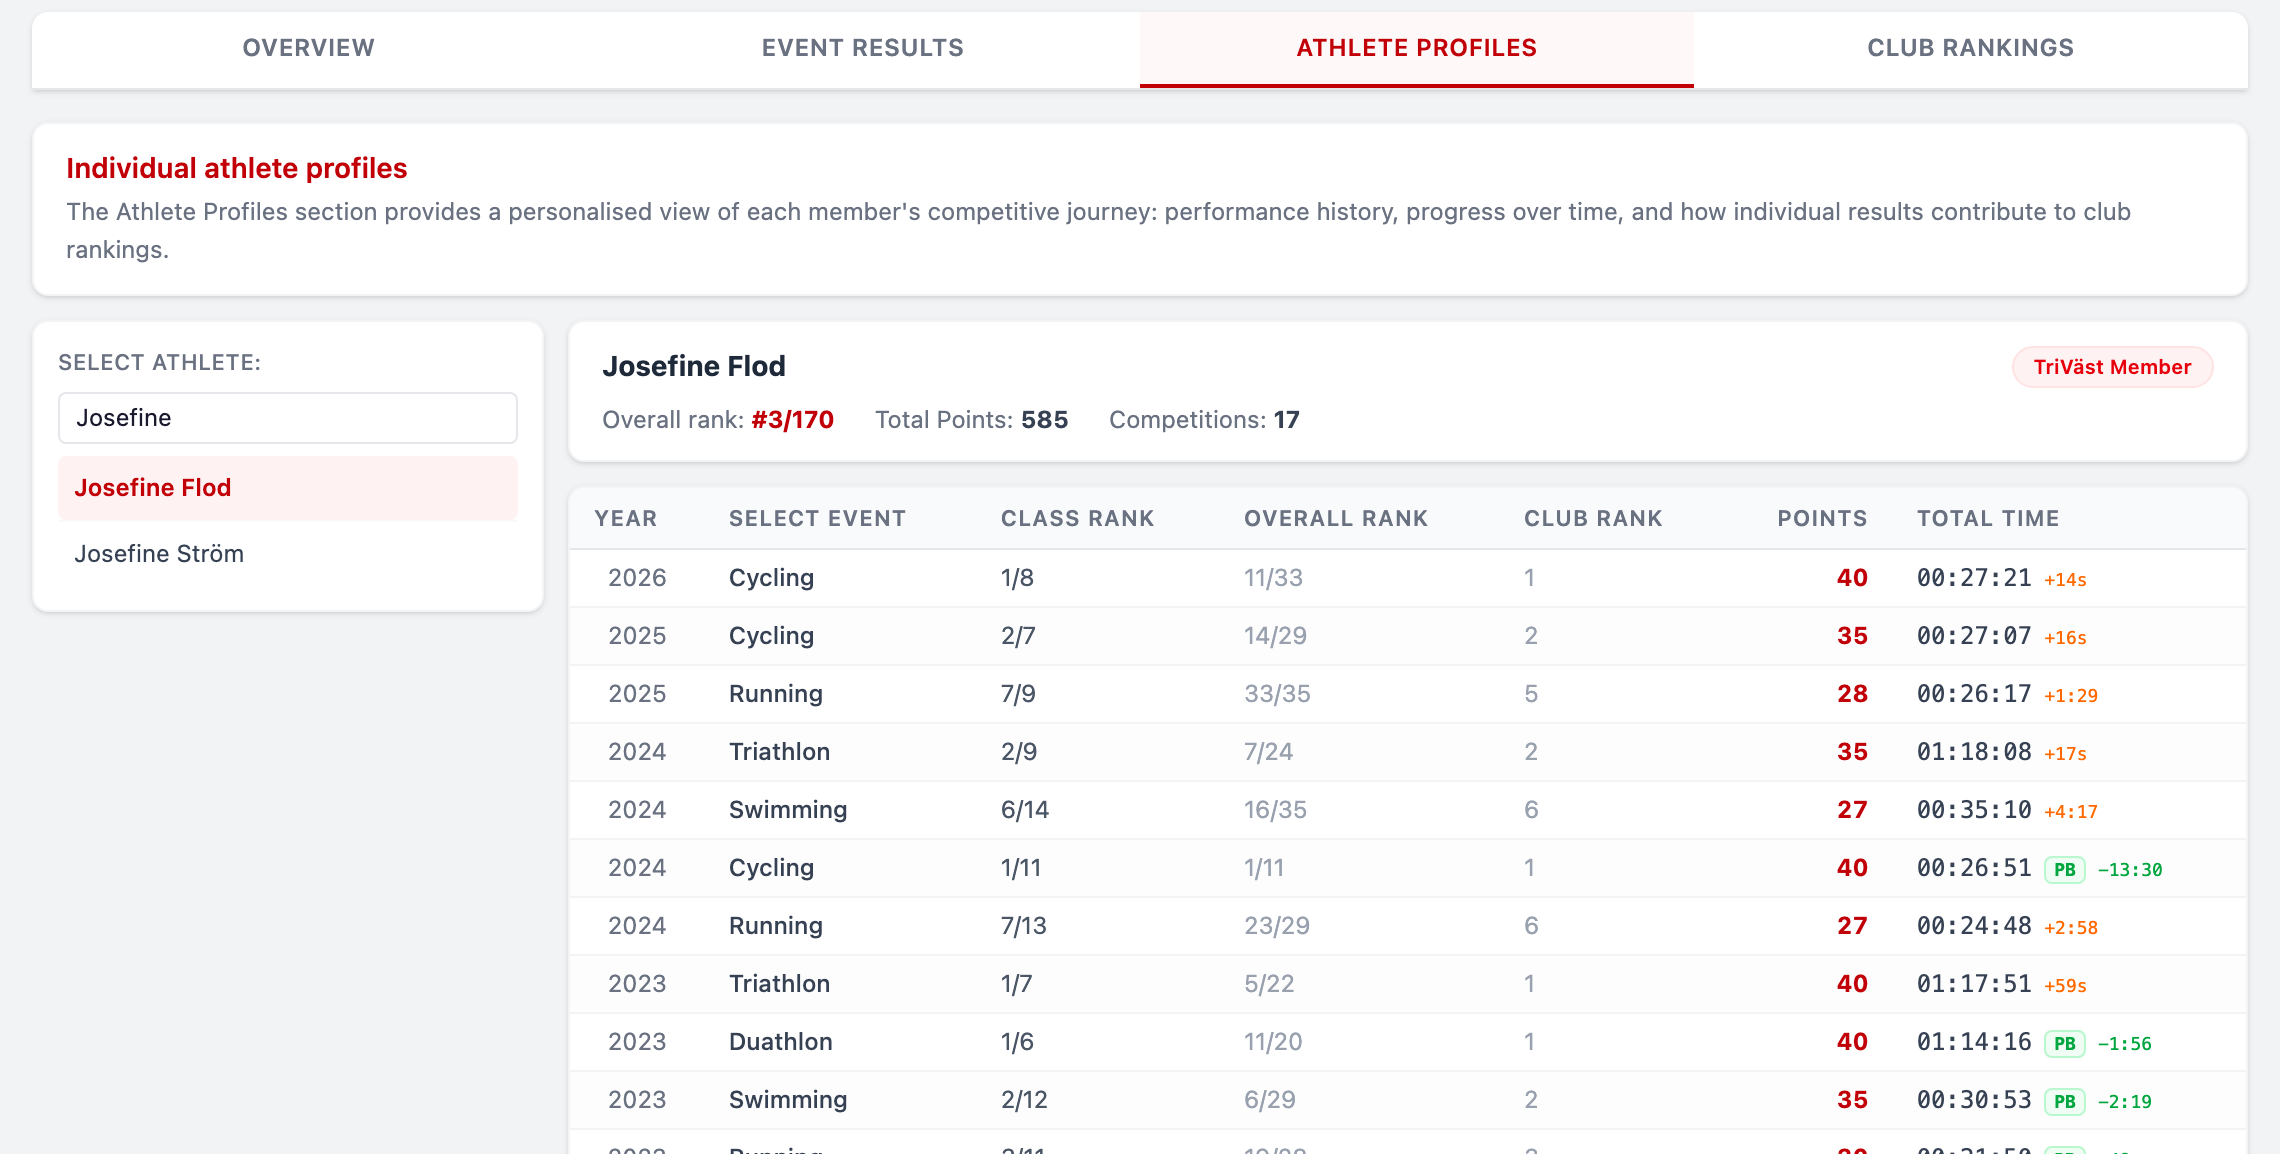
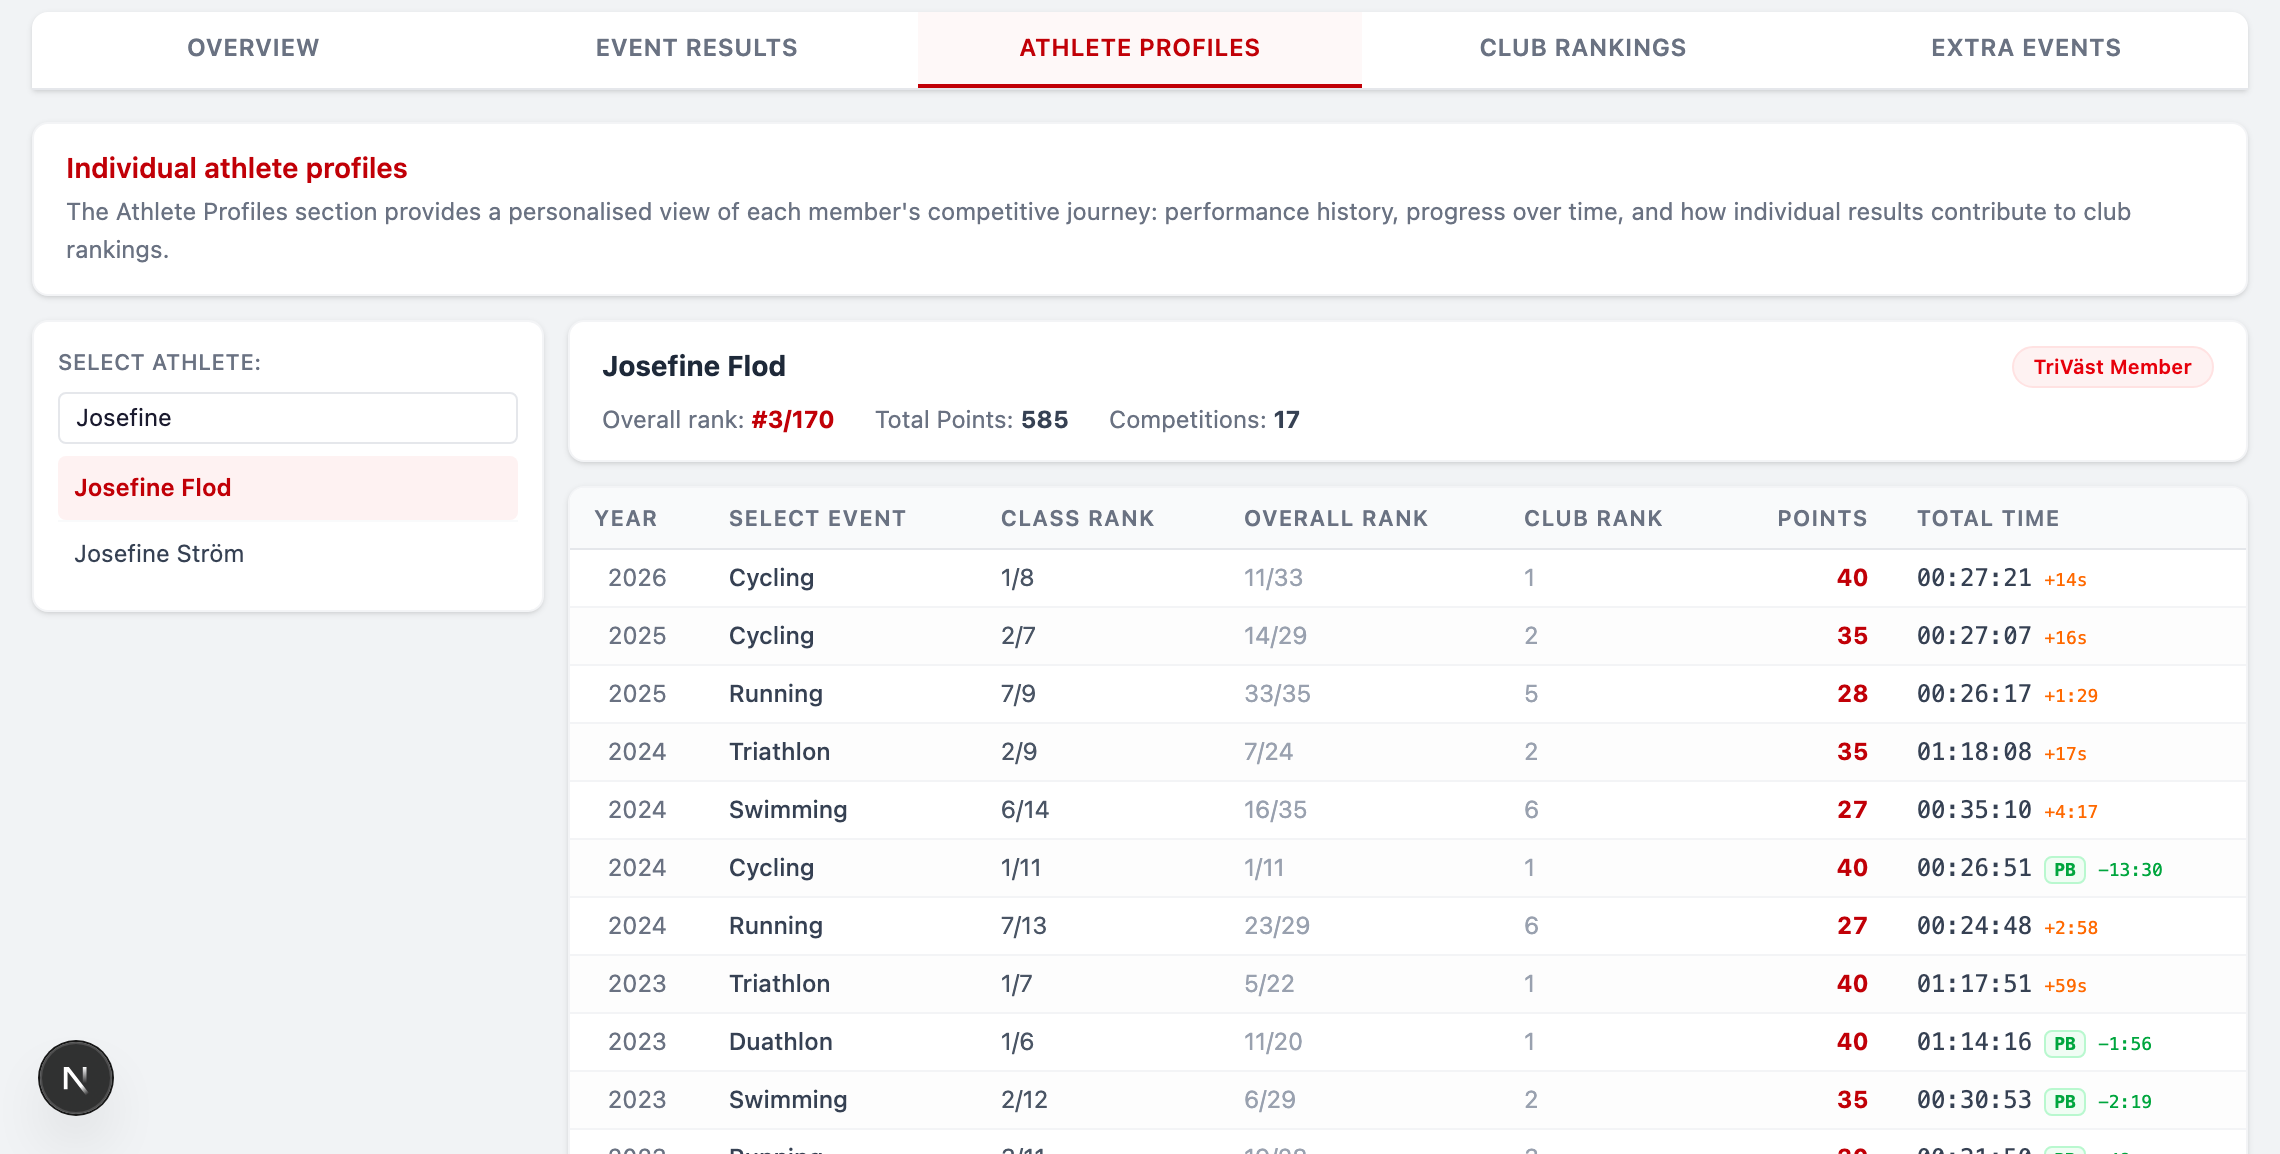
docs(readme): document extra events feature
Adds the Extra Events tab to the features list and screenshots,
the data/extra + nytatime layout to the structure tree, and the
fetch_extra.py import workflow. All four screenshots regenerated.

diff --git a/README.md b/README.md
@@ -18,6 +18,8 @@ An internal analytics dashboard for Triathlon Väst members. It aggregates CSV r
 
 The dataset currently covers **27 competitions** across 6 sports (triathlon, duathlon, swimming, cycling, running, swimrun) from **2021–2026**, including 1 swimrun event added in 2025.
 
+Beyond the championships, the dashboard also tracks **extra events** — timed open training sessions like the Rådasjön SuperSprint series — kept separate from the official results: no club points, no effect on rankings or athlete profiles.
+
 ## Screenshots
 
 ### Event Results
@@ -44,14 +46,23 @@ Annual leaderboards for men and women, based on a points system that rewards con
   <img src="public/screenshot-club-rankings.png" alt="Club Rankings tab" width="100%" />
 </p>
 
+### Extra Events
+
+Timed training sessions and other non-championship events — like the Rådasjön SuperSprint series — each with its own description, split rankings, and Overall/Men/Women category filter. Athletes who completed only some legs are listed unranked with the legs they did. No club points are awarded.
+
+<p align="center">
+  <img src="public/screenshot-extra-events.png" alt="Extra Events tab" width="100%" />
+</p>
+
 ## Highlights
 
 ### Features
 
-- **Overview tab**: Season-level participation trends and summary stats
+- **Overview tab**: Season-level participation trends, summary of all championships, and quick links into each discipline's results
 - **Results tab**: Filter and browse all competition results by sport, year, and category — per-event club points column and CSV export included
 - **Athletes tab**: Individual athlete profiles with full result history, personal bests, year-over-year deltas, and per-event points
 - **Rankings tab**: Club-wide leaderboards (women / men, per year or all-time) based on aggregated points across events
+- **Extra Events tab**: Timed trainings and other non-KM events with split ranks, category filter, bilingual event descriptions, and CSV export — partial participants listed unranked
 - **Bilingual UI**: Swedish / English toggle throughout
 - **Keyboard-accessible tabs**: proper tablist semantics with arrow-key navigation
 
@@ -93,6 +104,9 @@ npm run dev
 ```bash
 npm test          # unit tests (node:test, no build needed)
 npm run test:e2e  # Playwright e2e — needs the app running on :3000 first
+
+# Python data-pipeline tests
+cd nytatime && python3 -m unittest test_extra_events
 ```
 
 ## Project Structure
@@ -104,8 +118,18 @@ triathlon-vast-dashboard/
 ├── next.config.ts
 ├── tsconfig.json
 ├── data/                        # CSV result files (inputs, not edited manually)
-│   └── processed_<sport>_results_<date>.csv
+│   ├── processed_<sport>_results_<date>.csv
+│   └── extra/                   # non-KM events: result CSVs + events.json manifest
+├── nytatime/                    # Python pipeline: NyTaTime API → data/ CSVs
+│   ├── fetch.py                 # one-command KM fetch (year + sport)
+│   ├── fetch_extra.py           # one-command extra-event fetch (year + keyword)
+│   ├── retrieve_event_results.py
+│   ├── retrieve_extra_event_results.py
+│   ├── nytatime_api.py
+│   └── test_extra_events.py     # pipeline unit tests
 ├── public/                      # Static assets (logo, favicon, screenshots)
+├── scripts/
+│   └── capture-screenshots.mjs  # Regenerates the README screenshots
 ├── tests/
 │   └── e2e.mjs                  # Playwright end-to-end suite
 └── src/
@@ -127,10 +151,12 @@ triathlon-vast-dashboard/
     │       ├── OverviewTab.tsx
     │       ├── ResultsTab.tsx
     │       ├── AthletesTab.tsx
-    │       └── RankingsTab.tsx
+    │       ├── RankingsTab.tsx
+    │       └── ExtraEventsTab.tsx
     └── lib/
         ├── loader.ts            # Server-side CSV loading (built-in parser)
         ├── data.ts              # Query helpers: rankings, points, splits
+        ├── csv.ts               # CSV export escaping (formula-injection guard)
         ├── types.ts             # Shared TypeScript types
         ├── translations.ts      # EN/SV string catalogue
         └── __tests__/           # Unit tests (node:test)
@@ -170,6 +196,19 @@ When exporting results from NyTaTime, follow these rules to keep the data consis
 - No trailing whitespace in any field
 - File encoding: **UTF-8**
 - One empty line at end of file maximum
+
+## Extra Events Workflow (non-KM)
+
+Timed trainings and other non-championship events live in `data/extra/` and appear under the dashboard's Extra Events tab. They earn no club points and stay out of the rankings and athlete profiles.
+
+To add one:
+
+1. `cd nytatime && python3 fetch_extra.py 2026 "supersprint training #3"`
+2. Review the script's `Partial:` warnings — a missed chip read would wrongly demote a finisher to partial
+3. Polish the EN/SV `title`, `location`, and `description` in `data/extra/events.json`
+4. Commit `data/extra/` and push — the next deploy picks it up
+
+Participants who skipped legs are stored with `Status: partial` (only the legs they completed, no total time, no rank); participants with no recorded times at all are excluded.
 
 ## Contributing
 
